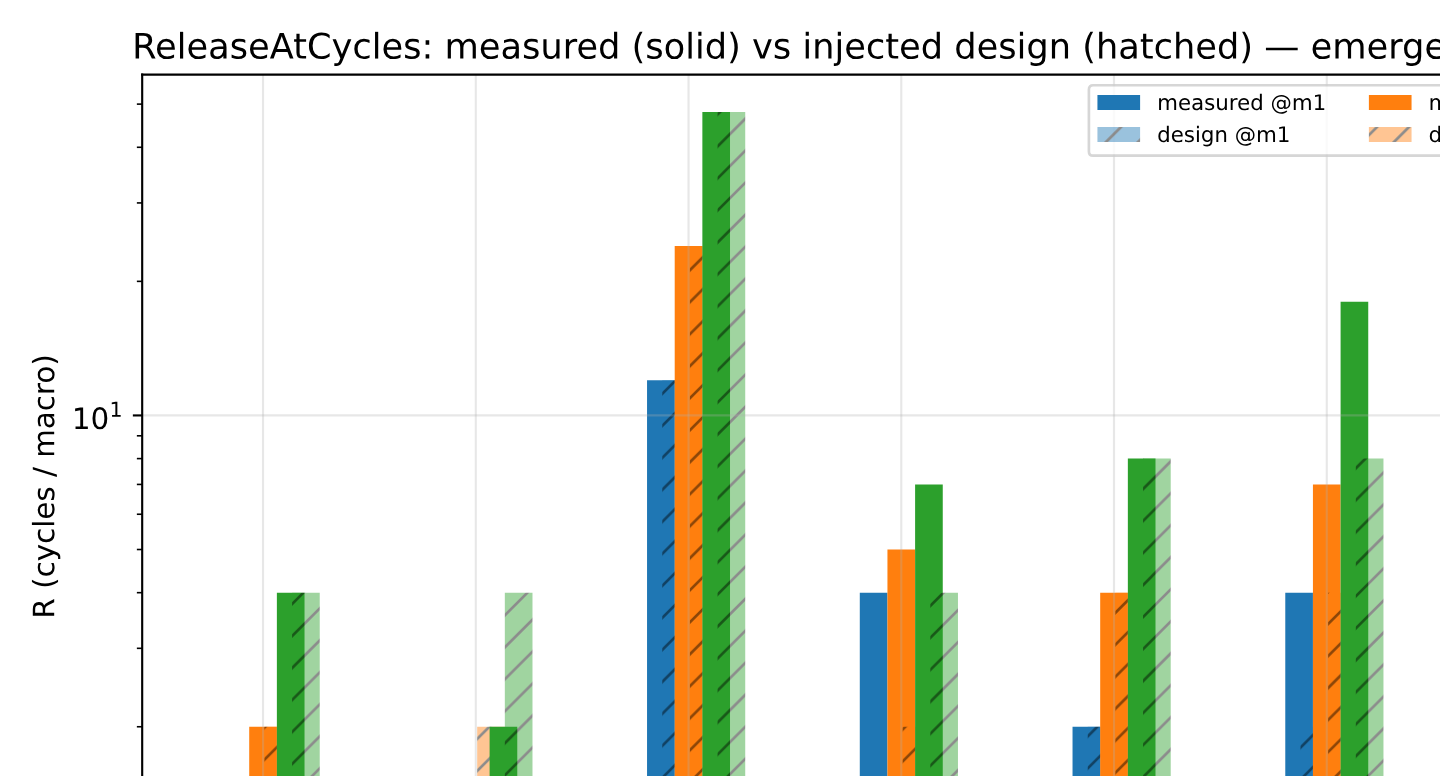
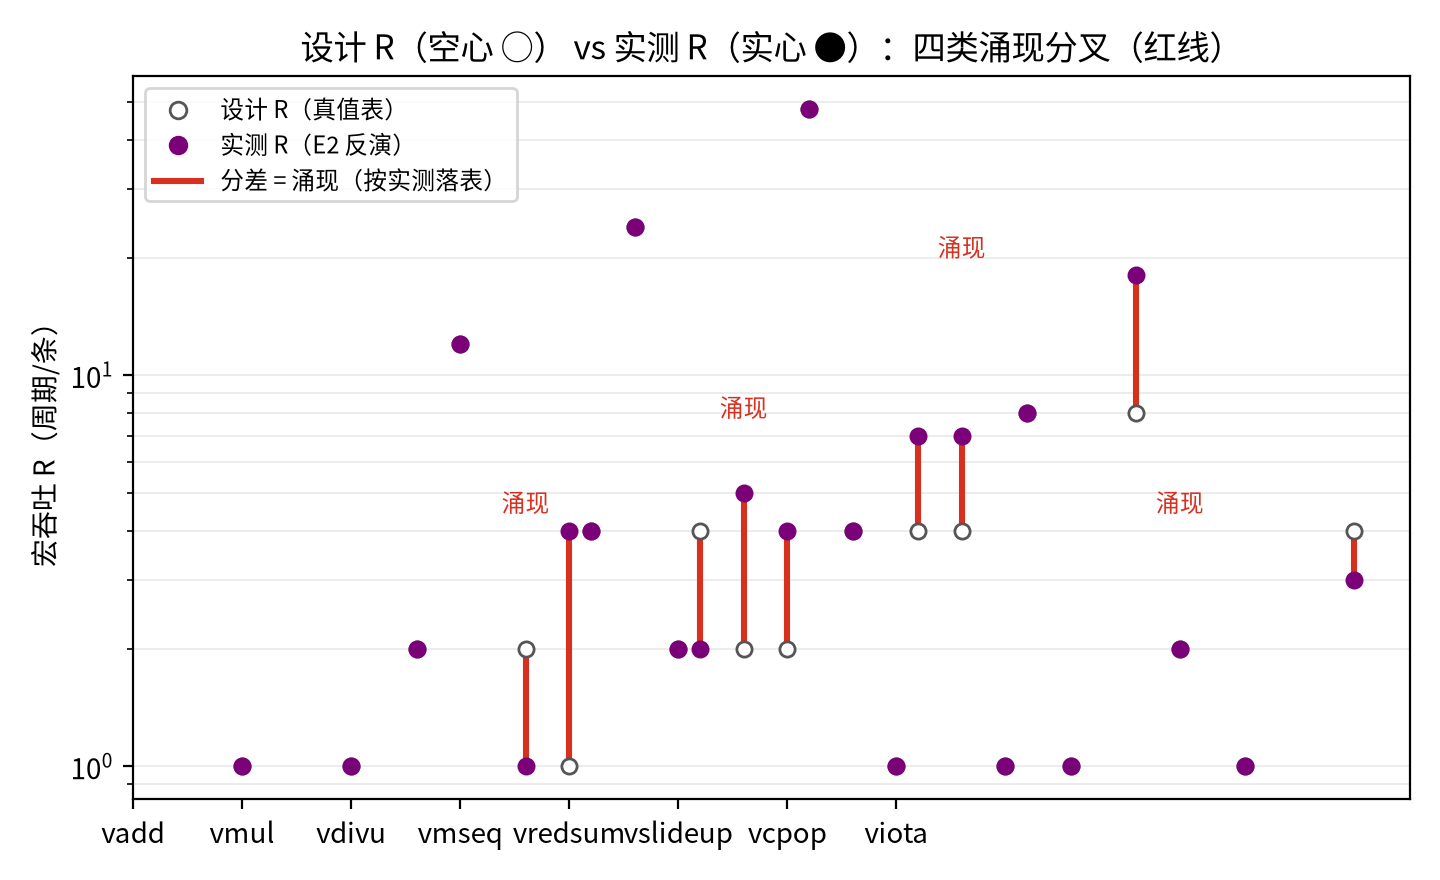
redraw 5.2 overview figures (stream_nscan, design_vs_measured): persistent generator scripts/make_figs.py reading real E2 deltas + profile JSON, direct PNG (no SVG viewBox clipping), CJK via extracted NotoSansCJK-SC face (matplotlib can't use .ttc); vision-verified complete (no truncation, no tofu)

diff --git a/scripts/make_figs.py b/scripts/make_figs.py
@@ -1,0 +1,115 @@
+#!/usr/bin/env python3
+"""Redraw the two chapter-5.2 overview figures as PNGs (matplotlib Agg).
+
+stream_nscan.png       E2 N-scan: measured marker deltas vs N, with the fitted
+                       delta = R*N - mu line per representative (instr, LMUL).
+design_vs_measured.png design R vs measured R per instruction per LMUL;
+                       divergent (emergent) instructions highlighted.
+
+Data source: experiments/e02-*/trace.json + results/profile_measured.json
+(design values inlined from config/yushuxin_timing_v2.yaml via yxmodel).
+"""
+import json, os, sys
+import matplotlib
+matplotlib.use('Agg')
+import matplotlib.pyplot as plt
+from matplotlib import font_manager
+
+# matplotlib cannot use .ttc collections for CJK reliably: register the
+# extracted SC face once (see repo docs / make_figs history).
+_CJK_TTF = os.path.expanduser('~/.local/share/fonts/NotoSansCJK-SC-extracted.ttf')
+if os.path.exists(_CJK_TTF):
+    font_manager.fontManager.addfont(_CJK_TTF)
+    plt.rcParams['font.sans-serif'] = ['Noto Sans CJK SC', 'DejaVu Sans']
+else:
+    plt.rcParams['font.sans-serif'] = ['DejaVu Sans']
+
+HERE = os.path.dirname(os.path.abspath(__file__))
+ROOT = os.path.dirname(HERE)
+OUT = os.path.join(ROOT, 'results', 'shots')
+
+plt.rcParams['axes.unicode_minus'] = False
+
+# --------------------------------------------------------------- data helpers
+def stream_deltas(instr, lmul, ns=(2, 3, 4, 6, 8, 12)):
+    pts = {}
+    for n in ns:
+        p = os.path.join(ROOT, 'experiments', f'e02-{instr}-{lmul}-n{n}', 'trace.json')
+        if os.path.exists(p):
+            e = json.load(open(p))['entries']
+            pts[n] = e[-1]['cycle'] - e[0]['cycle']
+    return pts
+
+sys.path.insert(0, HERE)
+from yxmodel import TimingModel
+m = TimingModel(os.path.join(ROOT, 'config', 'yushuxin_timing_v2.yaml'))
+
+INSTRS = ['vadd_vv', 'vmul_vv', 'vdivu_vv', 'vmseq_vv',
+          'vredsum_vs', 'vslideup_vx', 'vcpop_m', 'viota_m']
+LABEL = {'vadd_vv': 'vadd', 'vmul_vv': 'vmul', 'vdivu_vv': 'vdivu', 'vmseq_vv': 'vmseq',
+         'vredsum_vs': 'vredsum', 'vslideup_vx': 'vslideup', 'vcpop_m': 'vcpop', 'viota_m': 'viota'}
+
+# ------------------------------------------------------------------ fig 1
+SERIES = [  # (instr, lmul, color): slope R and the delta=N*R-mu line are drawn
+    ('vadd_vv',    'm1', '#2c7fb8'),
+    ('vmul_vv',    'm4', '#41ab5d'),
+    ('vredsum_vs', 'm2', '#88419d'),
+    ('vdivu_vv',   'm1', '#d7301f'),
+]
+fig, ax = plt.subplots(figsize=(7.2, 4.4), dpi=200)
+for instr, lm, c in SERIES:
+    pts = stream_deltas(instr, lm)
+    xs = sorted(pts)
+    R = m.R(instr, lm)
+    mu = m.mu(instr) if not m.is_nonpipelined(instr) else m.opLat(instr)
+    # measured R from slope for annotation honesty (matches design here)
+    fit = [R * n - mu for n in xs]
+    ax.scatter(xs, [pts[x] for x in xs], color=c, s=26, zorder=3)
+    ax.plot(xs, fit, color=c, lw=1.4,
+            label=f'{LABEL[instr]} {lm}: slope R={R}')
+ax.set_yscale('log')
+ax.set_xticks((2, 3, 4, 6, 8, 12))
+ax.set_xlabel('独立流长度 N（E2 目的寄存器轮转）')
+ax.set_ylabel('marker Δ（周期，log 轴）')
+ax.set_title('E2 独立流 N 扫描：Δ = R·N − μ，斜率即吞吐 R')
+ax.grid(True, which='both', alpha=.28, lw=.6)
+ax.legend(fontsize=8.5, loc='upper left')
+fig.tight_layout()
+fig.savefig(os.path.join(OUT, 'stream_nscan.png'))
+plt.close(fig)
+
+# ------------------------------------------------------------------ fig 2
+meas = json.load(open(os.path.join(ROOT, 'results', 'profile_measured.json')))['profile']
+LMULS = [('m1', 1.0), ('m2', 2.6), ('m4', 4.2)]      # x offsets inside a group
+fig, ax = plt.subplots(figsize=(7.2, 4.4), dpi=200)
+for i, instr in enumerate(INSTRS):
+    diverged = False
+    for lm, dx in LMULS:
+        d, v = m.R(instr, lm), meas[instr]['R'][lm]
+        if d != v:
+            diverged = True
+        x = i + dx
+        ax.plot([x, x], [d, v], color='#d7301f' if d != v else '#999999',
+                lw=2.2 if d != v else 1.2, zorder=2)
+        ax.scatter([x], [d], facecolors='white', edgecolors='#555', s=30, zorder=3)
+        ax.scatter([x], [v], color='#7a0177', s=30, zorder=3)
+    if diverged:
+        ax.annotate('涌现', (i + 2.6, max(m.R(instr, 'm4'), meas[instr]['R']['m4'])),
+                    xytext=(0, 7), textcoords='offset points', ha='center',
+                    fontsize=8.5, color='#d7301f', fontweight='bold')
+ax.set_xticks(range(len(INSTRS)))
+ax.set_xticklabels([LABEL[k] for k in INSTRS])
+ax.set_ylabel('宏吞吐 R（周期/条）')
+ax.set_title('设计 R（空心 ○） vs 实测 R（实心 ●）：四类涌现分叉（红线）')
+ax.set_yscale('log')
+ax.grid(True, axis='y', which='both', alpha=.28, lw=.6)
+from matplotlib.lines import Line2D
+ax.legend(handles=[
+    Line2D([], [], marker='o', ls='', mfc='white', mec='#555', label='设计 R（真值表）'),
+    Line2D([], [], marker='o', ls='', color='#7a0177', label='实测 R（E2 反演）'),
+    Line2D([], [], color='#d7301f', lw=2.2, label='分差 = 涌现（按实测落表）'),
+], fontsize=8.5, loc='upper left')
+fig.tight_layout()
+fig.savefig(os.path.join(OUT, 'design_vs_measured.png'))
+plt.close(fig)
+print('wrote stream_nscan.png & design_vs_measured.png ->', OUT)
